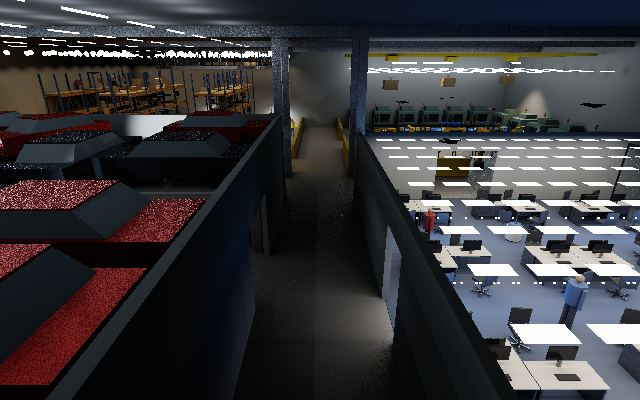
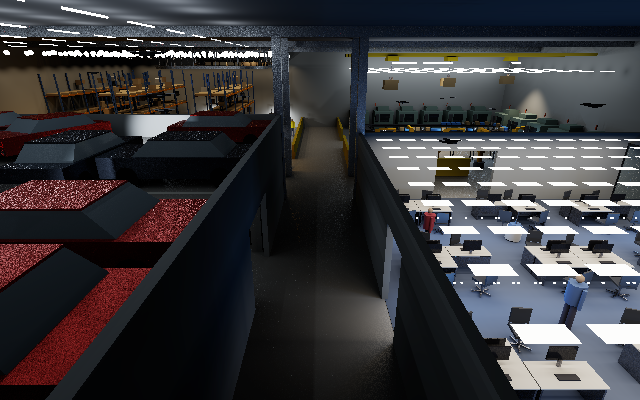
Stress scene: deeper parking bays, smooth conveyor curves
Parked cars sit 15 cm deeper in their bays, clear of the cars driving past
(they touched before). Conveyor beds and rails are swept along their loops,
eight steps per corner, instead of a row of short boxes that stepped on the
curves. References re-rendered for the changed frames.

diff --git a/Sources/MetalRenderer/Scene+Stress.swift b/Sources/MetalRenderer/Scene+Stress.swift
@@ -112,24 +112,36 @@ extension Scene {
             for lo in Hall.rackFaces { addInstance(rack.mesh, rack.material, translate([lo, 0, 0])) }
         }
 
-        /// A conveyor's bed round a loop, with legs down to the floor or hangers up to the ceiling.
+        /// A conveyor's bed round a loop, with legs down to the floor or hangers up to the ceiling. The bed and its
+        /// side rails are swept along the loop: one piece per straight, eight per round corner, so the curves are smooth.
         func conveyor(_ loop: Loop, width: Float, hung: Bool) -> MeshBuilder {
             var b = MeshBuilder()
-            let n = Int((loop.length / 0.5).rounded(.up))
-            for i in 0..<n {
-                let s0 = loop.length * Float(i) / Float(n), s1 = loop.length * Float(i + 1) / Float(n)
-                let (p0, _) = loop.at(s0), (p1, _) = loop.at(s1)
-                let mid = (p0 + p1) / 2, d = p1 - p0, half = length(d) / 2 + 0.02
-                b.frame = Hall.placed(mid, facing: d)
-                b.box([-half, -0.15, -width / 2], [half, 0, width / 2])
-                b.box([-half, 0, -width / 2 - 0.04], [half, 0.07, -width / 2])
-                b.box([-half, 0, width / 2], [half, 0.07, width / 2 + 0.04])
-                if i % 3 == 0 {
-                    for side: Float in [-1, 1] {
-                        let z = side * (width / 2 - 0.05)
-                        if hung { b.box([-0.02, 0, z - 0.02], [0.02, Hall.height - loop.y, z + 0.02]) }
-                        else { b.box([-0.03, -loop.y, z - 0.03], [0.03, -0.15, z + 0.03]) }
+            let w = width / 2
+            // Cross-sections (lateral, height), corners in an order that makes the faces face out.
+            let profiles: [[SIMD2<Float>]] = [[[w, 0], [-w, 0], [-w, -0.15], [w, -0.15]],
+                                              [[w + 0.04, 0.07], [w, 0.07], [w, 0], [w + 0.04, 0]],
+                                              [[-w, 0.07], [-w - 0.04, 0.07], [-w - 0.04, 0], [-w, 0]]]
+            let frames = loop.samples(perCorner: 8).map { s -> (SIMD3<Float>, SIMD3<Float>) in
+                let (p, h) = loop.at(s)
+                return (p, SIMD3(-h.z, 0, h.x))   // where, and the lateral axis (heading x up)
+            }
+            func at(_ f: (SIMD3<Float>, SIMD3<Float>), _ q: SIMD2<Float>) -> SIMD3<Float> { f.0 + f.1 * q.x + [0, q.y, 0] }
+            for i in frames.indices.dropLast() {
+                let f0 = frames[i], f1 = frames[i + 1]
+                for profile in profiles {
+                    for j in profile.indices {
+                        let a = profile[j], c = profile[(j + 1) % profile.count]
+                        b.quad(at(f0, a), at(f1, a), at(f1, c), at(f0, c))
                     }
+                }
+            }
+            for k in 0..<Int(loop.length / 1.5) {
+                let (p, heading) = loop.at(1.5 * Float(k))
+                b.frame = Hall.placed(p, facing: heading)
+                for side: Float in [-1, 1] {
+                    let z = side * (w - 0.05)
+                    if hung { b.box([-0.02, 0, z - 0.02], [0.02, Hall.height - loop.y, z + 0.02]) }
+                    else { b.box([-0.03, -loop.y, z - 0.03], [0.03, -0.15, z + 0.03]) }
                 }
             }
             b.frame = matrix_identity_float4x4
@@ -435,6 +447,20 @@ private struct Loop {
     let center: SIMD2<Float>, half: SIMD2<Float>, radius: Float, y: Float
     var length: Float { 4 * (half.x - radius) + 4 * (half.y - radius) + 2 * .pi * radius }
 
+    /// Distances round the loop that trace it: each straight's ends and `perCorner` steps round each corner, back to
+    /// the start.
+    func samples(perCorner n: Int) -> [Float] {
+        var out: [Float] = [], s: Float = 0
+        let arc = 0.5 * Float.pi * radius
+        for i in 0..<4 {
+            out.append(s)
+            s += 2 * (i % 2 == 0 ? half.x - radius : half.y - radius)
+            for k in 0..<n { out.append(s + arc * Float(k) / Float(n)) }
+            s += arc
+        }
+        return out + [length]
+    }
+
     /// Where something `s` metres round the loop is, and which way it faces.
     func at(_ s: Float) -> (position: SIMD3<Float>, heading: SIMD3<Float>) {
         var s = s.truncatingRemainder(dividingBy: length)
@@ -588,11 +614,11 @@ private enum Hall {
     // MARK: Garage
 
     static let garageLevels: [Float] = [0, deck]
-    /// Bays: two rows on each level, cars nose in or out.
+    /// Bays: two rows on each level, cars nose in or out, 15 cm clear of the cars driving past and of the walls.
     static let parkingBays: [(position: SIMD3<Float>, facing: SIMD3<Float>)] = {
         var out: [(SIMD3<Float>, SIMD3<Float>)] = []
         for (i, y) in garageLevels.enumerated() {
-            for x: Float in [-14.55, -4.45] {
+            for x: Float in [-14.7, -4.3] {
                 for b in 0..<7 {
                     let z = 3.75 + 2.5 * Float(b)
                     out.append(([x, y, z], [(b + i) % 3 == 0 ? -1 : 1, 0, 0]))

diff --git a/README.md b/README.md
@@ -303,7 +303,7 @@ A 40 × 8 × 40 m building in four zones round a cross-shaped aisle: a **warehou
   |---|---|---|---|---|---|---|---|
   | GPU ms | 12.24 | 13.88 | 15.35 | 15.89 | 27.35 | 35.41 | 14.18 |
 
-  Quality at 640×400 against the converged references (`METALRENDERER_BENCH=stressq`, `Tools/eval/stress.py`): direct light 29.5 dB still and moving at 32 lights, 27.4 dB at 128; the final image against an 8-bounce path-traced reference 25.7 dB with radiance cascades, 27.7 dB path traced, 31.0 dB with ReSTIR GI; MetalFX's denoiser at 3× against supersampled frames 29.3 dB (albedo) and 27.0 dB (direct light).
+  Quality at 640×400 against the converged references (`METALRENDERER_BENCH=stressq`, `Tools/eval/stress.py`): direct light 29.4–29.5 dB still and moving at 32 lights, 27.4 dB at 128; the final image against an 8-bounce path-traced reference 25.7 dB with radiance cascades, 27.7 dB path traced, 31.0 dB with ReSTIR GI; MetalFX's denoiser at 3× against supersampled frames 29.3 dB (albedo) and 26.9 dB (direct light).
 
   ReSTIR DI, its light grid and MegaLights, accumulated without reuse, match tracing every light here (mean brightness ratio 1.00, 47–48 dB, `METALRENDERER_BENCH=restircheck`).
 * Every run builds the same building (seeded). It replaced a 20 × 6 × 20 m hall of floating and bouncing cubes and spheres lit by drifting sphere lights in October 2026: the figures in this README quoted for "the stress hall" or "the stress scene" were measured in that hall, unless a table says otherwise.
